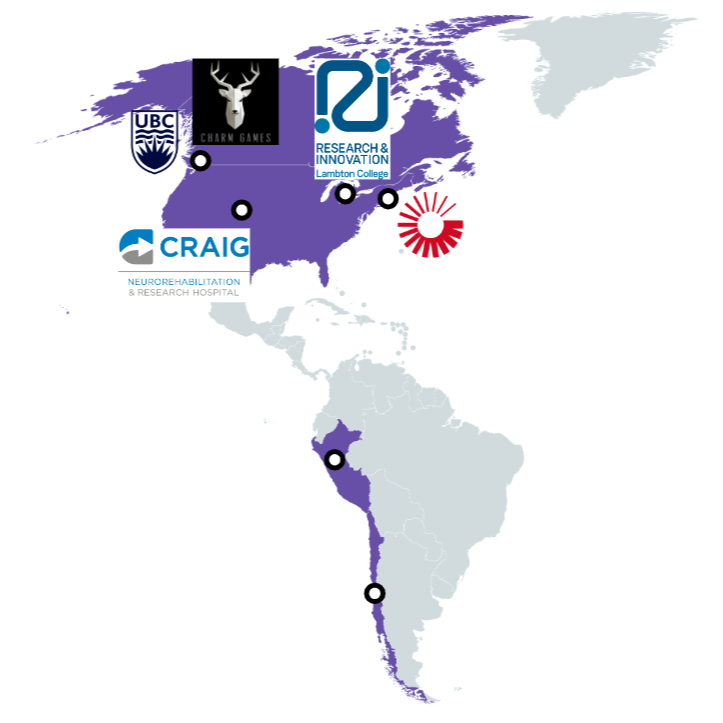
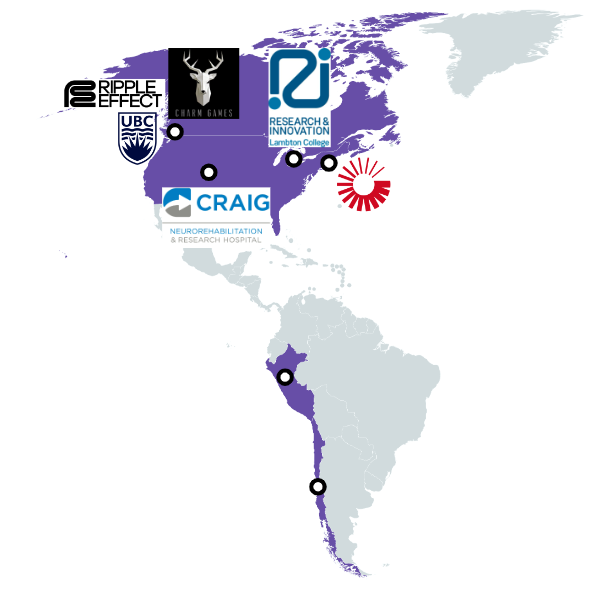
Updated personal map

diff --git a/about.html b/about.html
@@ -31,7 +31,7 @@
     <div class="article-summary"> 
       <div class="fill"></div>
       <div class="column">
-        <p>Hi, I'm Felix Wilton! I'm a Computer Science and Mechatronics student with a passion for game dev.</p>
+        <p>Hi, I'm Felix Wilton! I'm a Mechatronics and Computer Science student with a passion for game dev.</p>
         <p>I love opportunities to draw on my varied technical background, including robotics and machine learning. My extensive work in the assistive technology field has given me a unique perspective on accessibility and the power of gaming to change lives.</p>
         <p>I love to play all sorts of games, including lengthy board games. The Assassin's Creed series inspired my interest in parkour, a sport I have trained for over 10 years. I worked on an assistive gaming program at Craig Hospital to bring gaming back to the paraplegic patient community.</p>
         <p>I seek out adventure. I am a snowboarder, rock climber, and parkour athlete. I coached parkour for 4 years and won some state-level parkour competitions!</p>
@@ -50,10 +50,11 @@
         <p>I was born in Chile and spent most of my childhood in Peru. After moving to the US in 2011, I completed middle school and high school in Colorado. I moved to Vancouver, Canada to study Computer Science and Mechanical Engineering at the University of British Columbia.</p>
         <p>I have loved my opportunities to work with diverse teams in different places, including:</p>
         <ul>
-          <li>Denver, Colorado @ Craig Neurorehabilitation Hospital</li>
-          <li>Portsmouth, Rhode Island @ Raytheon Missiles & Defense</li>
-          <li>Sarnia, Ontario @ Lambton Research and Innovation</li>
+          <li>Vancouver, British Columbia @ Electronic Arts (Ripple Effect)</li>
           <li>Vancouver, British Columbia @ Charm Games</li>
+          <li>Sarnia, Ontario @ Lambton Research and Innovation</li>
+          <li>Portsmouth, Rhode Island @ Raytheon Missiles & Defense</li>
+          <li>Denver, Colorado @ Craig Neurorehabilitation Hospital</li>
         </ul>
       </div>
       <div class="fill"></div>
